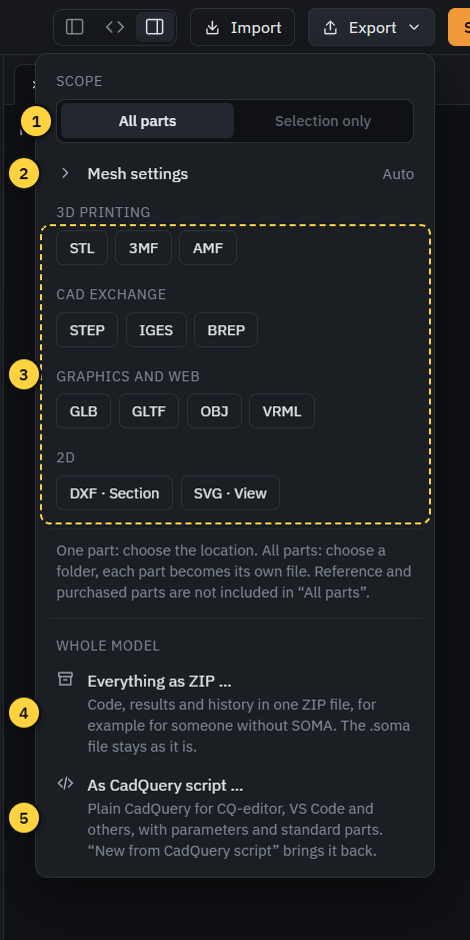
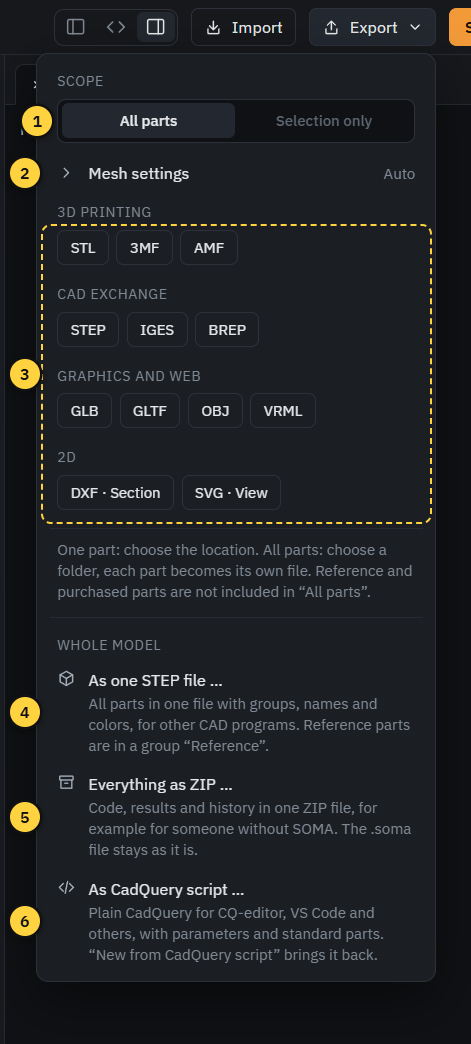
App: export the whole model as one STEP file (issue #11)
"As one STEP file …" under Whole model in the Export menu runs
`soma export --assembly` and saves the file where the user chooses, like a
single part. Groups become sub-assemblies, purchased parts are in it, reference
parts in a group "Reference".

User guide with a new help image, the command in the AGENTS.md template, a
check in the groups suite, also for a cq.Compound around one solid.

diff --git a/app/src/main/projects.ts b/app/src/main/projects.ts
@@ -368,22 +368,28 @@ export class ProjectController {
    * Export über `soma export` (E34) mit Dateidialog: ein Bauteil in eine gewählte Datei, alle Bauteile (ohne Referenz- und
    * Zukaufteile) als je eine Datei in einen gewählten Ordner. soma schreibt in einen leeren Ordner unter Temp, die App
    * kopiert danach. So landet nichts in exports/ des Projekts, und eine vorhandene Datei wird nie ohne Rückfrage ersetzt.
+   * `assembly`: the whole model as one STEP file (issue #11, `soma export --assembly`), saved like a single part.
    */
-  async exportModel(format: string, part: string | null, mesh?: unknown): Promise<ExportResult> {
+  async exportModel(format: string, part: string | null, mesh?: unknown, assembly = false): Promise<ExportResult> {
     const s = this.need();
     if (!/^[a-z0-9]{2,5}$/.test(format)) return { ok: false, files: [], error: `Unknown format: ${format}` };
+    if (assembly && (format !== 'step' || part)) return { ok: false, files: [], error: 'Only STEP can hold the whole model in one file.' };
     const meshArgs = MESH_EXPORT_FORMATS.includes(format) ? meshExportArgs(mesh) : [];
     const last = getAppState(s.id).exportDir;
     const startDir = last && fs.existsSync(last) ? last : documentsDir();
+    const modelName = safeFileName(readProjectJson(s.id)?.name ?? 'Model');
+    const single = !!part || assembly;
     const target = await chooseExportTarget(this.getWin(), part
       ? { kind: 'file', title: `Export “${part}”`, defaultPath: path.join(startDir, `${safeFileName(part)}.${format}`), ext: format }
-      : { kind: 'dir', title: 'Choose a folder for the export', defaultPath: startDir });
+      : assembly
+        ? { kind: 'file', title: 'Export the model as one STEP file', defaultPath: path.join(startDir, `${modelName}.step`), ext: 'step' }
+        : { kind: 'dir', title: 'Choose a folder for the export', defaultPath: startDir });
     if (!target) return { ok: false, files: [], cancelled: true };
     let tmp: string | null = null;
     try {
       tmp = fs.mkdtempSync(path.join(os.tmpdir(), 'soma-export-'));
       // `--` vor dem Namen: Bauteilnamen dürfen mit einem Minus beginnen, ohne als Option zu gelten
-      const args = ['export', '--format', format, ...meshArgs, '--project', s.dir, '--out', tmp, ...(part ? ['--', part] : ['--all'])];
+      const args = ['export', '--format', format, ...meshArgs, '--project', s.dir, '--out', tmp, ...(part ? ['--', part] : assembly ? ['--assembly'] : ['--all'])];
       const r = await runSoma(args, s.dir, 10 * 60 * 1000);
       if (!r.ok) {
         const msg = (r.err || r.out).trim().split(/\r?\n/).slice(-3).join('\n');
@@ -394,14 +400,14 @@ export class ProjectController {
       const made = fs.readdirSync(dir).filter((n) => fs.statSync(path.join(dir, n)).isFile());
       if (!made.length) return { ok: false, files: [], error: 'soma did not write a file.' };
       const plan: [string, string][] = [];
-      if (part) {
+      if (single) {
         const main = made.find((n) => n.toLowerCase().endsWith(`.${format}`)) ?? made[0];
         const dest = path.extname(target) ? target : `${target}.${format}`;
         plan.push([path.join(dir, main), dest]);
         for (const n of made) if (n !== main) plan.push([path.join(dir, n), path.join(path.dirname(dest), n)]);
       } else for (const n of made) plan.push([path.join(dir, n), path.join(target, n)]);
       // Beim Einzelexport hat der Speichern-Dialog für die Hauptdatei schon gefragt, alles andere fragt die App
-      const exists = plan.filter(([, d], i) => !(part && i === 0) && fs.existsSync(d)).map(([, d]) => path.basename(d));
+      const exists = plan.filter(([, d], i) => !(single && i === 0) && fs.existsSync(d)).map(([, d]) => path.basename(d));
       if (exists.length) {
         const c = await choose(this.getWin(), {
           title: 'Export', message: exists.length === 1 ? 'This file already exists in the folder:' : `These ${exists.length} files already exist in the folder:`,
@@ -413,8 +419,8 @@ export class ProjectController {
         fs.mkdirSync(path.dirname(dest), { recursive: true });
         fs.copyFileSync(src, dest);
       }
-      const dest = part ? plan[0][1] : target;
-      patchAppState(s.id, { exportDir: part ? path.dirname(dest) : target });
+      const dest = single ? plan[0][1] : target;
+      patchAppState(s.id, { exportDir: single ? path.dirname(dest) : target });
       // Hinweise von soma (z. B. ein Netz, das nicht geschlossen ist, mit den betroffenen Flächen) an den Benutzer weitergeben
       const warnings = r.out.split(/\r?\n/).filter((l) => l.startsWith('warning: ')).map((l) => l.slice(9).trim());
       return { ok: true, files: plan.map(([, d]) => d), target: dest, ...(warnings.length ? { warnings } : {}) };

diff --git a/app/src/renderer/main.ts b/app/src/renderer/main.ts
@@ -1542,6 +1542,7 @@ renderMeshOpts();
 $('exp-all').addEventListener('click', () => { exportScope = 'all'; renderExportScope(); });
 $('exp-sel').addEventListener('click', () => { exportScope = 'sel'; renderExportScope(); });
 document.querySelectorAll<HTMLButtonElement>('#menu-export [data-fmt]').forEach((b) => b.addEventListener('click', () => void doExport(b.dataset.fmt!, b.textContent!)));
+$('exp-step-asm').addEventListener('click', () => { menus.close(); void doExportAssembly(); });
 $('exp-zip').addEventListener('click', () => { menus.close(); void doExportZip(); });
 $('exp-cq').addEventListener('click', () => { menus.close(); void doExportCadQuery(); });
 
@@ -1554,6 +1555,15 @@ async function doExportCadQuery(): Promise<ExportResult> {
     const notes = [...(r.warnings ?? []), ...(open.length ? [`Not included (not saved in the editor): ${open.join(', ')}`] : [])];
     toast([`Model exported as CadQuery:\n${r.target ?? ''}`, ...notes].join('\n'), open.length ? 'error' : 'ok');
   } else toast(r.error ?? 'Export failed', 'error');
+  return r;
+}
+
+/** The whole model as one STEP file (issue #11), built from the code like any export, references in their own group. */
+async function doExportAssembly(): Promise<ExportResult> {
+  const r = await api.build.exportAssembly();
+  if (r.cancelled) return r;
+  if (r.ok) toast(`Model exported as one STEP file:\n${r.target ?? r.files[0] ?? ''}`, 'ok');
+  else toast(`Export failed: ${r.error}`, 'error');
   return r;
 }
 
@@ -2113,6 +2123,7 @@ if (api.testMode) {
     display: () => Object.fromEntries([...document.querySelectorAll<HTMLElement>('[data-display]')].map((b) => [b.dataset.display, b.getAttribute('aria-checked') === 'true'])),
     /** Export wie über das Menü (`sel`: das ausgewählte Bauteil), liefert das Ergebnis. */
     exportAs: (fmt: string, scope: 'all' | 'sel') => { exportScope = scope; return doExport(fmt, fmt.toUpperCase()); },
+    exportAssembly: () => doExportAssembly(),
     /** „Everything as ZIP“ im Export-Menü (E79). */
     exportZip: () => doExportZip(),
     /** „As CadQuery script“ im Export-Menü und „New from CadQuery script“ (E100). */

diff --git a/app/src/renderer/index.html b/app/src/renderer/index.html
@@ -485,6 +485,7 @@
     <div class="mnote">One part: choose the location. All parts: choose a folder, each part becomes its own file. Reference and purchased parts are not included in “All parts”.</div>
     <div class="msep"></div>
     <div class="mh">WHOLE MODEL</div>
+    <button id="exp-step-asm" class="mi two" role="menuitem"><i data-icon="f-cad" data-size="15"></i><span class="t"><span>As one STEP file …</span><span class="sub">All parts in one file with groups, names and colors, for other CAD programs. Reference parts are in a group “Reference”.</span></span></button>
     <button id="exp-zip" class="mi two" role="menuitem"><i data-icon="f-zip" data-size="15"></i><span class="t"><span>Everything as ZIP …</span><span class="sub">Code, results and history in one ZIP file, for example for someone without SOMA. The .soma file stays as it is.</span></span></button>
     <button id="exp-cq" class="mi two" role="menuitem"><i data-icon="f-py" data-size="15"></i><span class="t"><span>As CadQuery script …</span><span class="sub">Plain CadQuery for CQ-editor, VS Code and others, with parameters and standard parts. “New from CadQuery script” brings it back.</span></span></button>
   </div>

diff --git a/app/src/main/main.ts b/app/src/main/main.ts
@@ -111,6 +111,7 @@ function registerIpc(ctl: ProjectController): void {
   ipcMain.handle('build:setAuto', (_e, on: boolean) => ctl.need().builds.setAuto(!!on));
   ipcMain.handle('build:status', () => ctl.need().builds.status);
   ipcMain.handle('build:export', (_e, format: string, part: string | null, mesh: unknown) => ctl.exportModel(String(format), part ? String(part) : null, mesh));
+  ipcMain.handle('build:exportAssembly', () => ctl.exportModel('step', null, undefined, true));
 
   ipcMain.handle('fs:list', () => listFiles(dir()));
   ipcMain.handle('fs:import', (_e, paths: string[]) => importInputs(dir(), Array.isArray(paths) ? paths.map(String) : []));

diff --git a/app/src/shared/types.ts b/app/src/shared/types.ts
@@ -493,6 +493,8 @@ export interface SomaApi {
     onStatus(cb: (s: BuildStatus) => void): void;
     /** `part` null = alle Bauteile ohne Referenzen. `mesh` gilt nur für Netzformate, bei anderen ignoriert. */
     export(format: string, part: string | null, mesh?: MeshExportOptions): Promise<ExportResult>;
+    /** The whole model as one STEP file with groups, names and colors, without reference parts (issue #11). */
+    exportAssembly(): Promise<ExportResult>;
   };
   fs: {
     list(): Promise<FileNode[]>;

diff --git a/app/src/preload/preload.ts b/app/src/preload/preload.ts
@@ -40,6 +40,7 @@ const api: SomaApi = {
     status: () => ipcRenderer.invoke('build:status'),
     onStatus: (cb) => { ipcRenderer.on('build:status', (_e, s) => cb(s)); },
     export: (format, part, mesh) => ipcRenderer.invoke('build:export', format, part, mesh ?? null),
+    exportAssembly: () => ipcRenderer.invoke('build:exportAssembly'),
   },
   fs: {
     list: () => ipcRenderer.invoke('fs:list'),

diff --git a/app/resources/template/AGENTS.md b/app/resources/template/AGENTS.md
@@ -13,7 +13,7 @@ The app shows the result in a 3D viewer next to this terminal. Notes and wishes 
 | `inputs/` | Files the user brought (STEP, images, PDF). Never modify them, load them from `model.py`. Read PDFs with `pdfplumber` (text, lines and coordinates, `page.to_image()` for a picture) |
 | `parameters.json` | Values the user set in the app's Parameters panel (rule 7). Written by the app |
 | `output/model.step` | Main result with all parts, written by `soma build`. Never write it yourself |
-| `exports/` | Single-part exports written by `soma export` |
+| `exports/` | Exports written by `soma export` |
 | `animations/` | Optional. Motion, camera flights and captions in Python (`soma.anim`), one file per topic. The skill for animation explains them |
 | `analyses/` | Optional. Load cases for `soma analyze fem` in Python (`soma.fem`), one file per load case. The skill for FEM explains them |
 | `drawings/` | Optional. Technical drawings in Python (`soma.drawing`), one file per drawing or set of sheets. `soma drawing build` writes PDF and DXF to `output/drawings/`, all sheets together to `output/drawings.pdf`. The skill for technical drawings explains them |
@@ -40,7 +40,8 @@ Run them in this terminal. They work without the app.
 |---|---|
 | `soma build` | Runs `model.py`, writes `output/model.step` and the viewer cache. **Run it after every change and read the result.** On errors it prints the file, line and message |
 | `soma export <Part> --format stl` | Exports one part (formats: step, stl, 3mf, amf, brep, iges, obj, vrml, glb, gltf, dxf, svg) |
-| `soma export --all --format step` | Exports all parts except references |
+| `soma export --all --format step` | Exports all parts except references, one file each |
+| `soma export --assembly --format step` | Exports the whole model as one STEP file with groups, names and colors, references under "Reference" |
 | `soma export <Part> --format glb --detail coarse` | Mesh formats (stl, 3mf, amf, obj, glb, gltf) take `--units mm\|cm\|m\|in`, `--up z\|y`, `--detail coarse\|normal\|fine` or `--tolerance <mm>`. Default: glb/gltf in m with Y up (game engines, Blender), the others in mm with Z up |
 | `soma render` | Saves a picture of the current model to `renders/view-iso.png` (`--view top` or a direction `--view=1,-2,1`, `--hide`/`--only` parts or groups, `--fit` parts, `--zoom 2`, `--size 1280x800`, `--out`). **Open the picture and look at it** to check your work, also inside: hide what is in the way. Needs the app with this model open, it renders with the app's viewer |
 | `soma analyze overhang` (or `thickness`, `clearance`) | Value at every spot of the surface with a summary per part. Details in the skill for analysis |

diff --git a/app/resources/skills/soma-app.md b/app/resources/skills/soma-app.md
@@ -209,8 +209,9 @@ after that Ctrl S saves to the same file. Copy or send the file like any other d
 1. **Scope**: all parts, or only the selected one.
 2. **Mesh settings**: closed by default, click to open. Units, the axis pointing up and the mesh density for STL, 3MF, AMF, OBJ, GLB and GLTF. "Auto" writes GLB and GLTF in meters with Y up, as game engines (Unity, Unreal, Godot) and Blender expect them, and the other formats in millimeters with Z up, as slicers expect them. "Coarse" gives fewer triangles, for example for a game, "Fine" smoother curves. The settings are remembered, and the closed row shows what differs from Auto.
 3. **Formats**: for 3D printing (STL, 3MF), CAD (STEP, IGES), graphics and 2D (DXF, SVG). All parts become one file per part in a folder you choose.
-4. **Everything as ZIP**: the whole model with code, results and history, for someone without SOMA.
-5. **As CadQuery script**: the model as plain CadQuery for CQ-editor, VS Code with ocp_vscode and other tools, without SOMA.
+4. **As one STEP file**: the whole model in a single STEP file, with the groups as sub-assemblies and the names and colors of the parts, for other CAD programs. Purchased parts such as screws are included, reference parts too, in a group "Reference".
+5. **Everything as ZIP**: the whole model with code, results and history, for someone without SOMA.
+6. **As CadQuery script**: the model as plain CadQuery for CQ-editor, VS Code with ocp_vscode and other tools, without SOMA.
 
 If a mesh is not closed, the message after the export says why, for example which faces could not be meshed and where they are.
 
